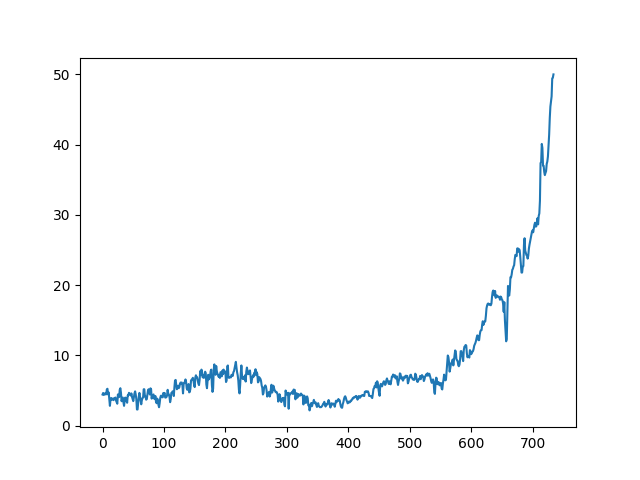
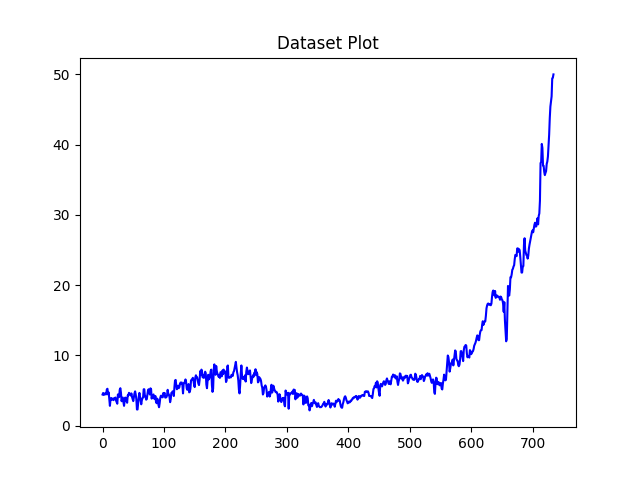
lstm update

diff --git a/lstm.py b/lstm.py
@@ -1,8 +1,86 @@
-import pandas as pd
+import numpy as np
 import matplotlib.pyplot as plt
+import pandas as pd
+import math
+from keras.models import Sequential
+from keras.layers import Dense
+from keras.layers import LSTM
+from keras.utils import plot_model
+from sklearn.preprocessing import MinMaxScaler
+from sklearn.metrics import mean_squared_error
 
-dataset = pd.read_excel('real-daily-wages-in-pounds-england.xlsx',dtype={'Wage':float})
-#print(dataset.Wage)
+def create_dataset(dataset, look_back=1):
+	dataX, dataY = [], []
+	for i in range(len(dataset)-look_back-1):
+		a = dataset[i:(i+look_back), 0]
+		dataX.append(a)
+		dataY.append(dataset[i + look_back, 0])
+	return np.array(dataX), np.array(dataY)
 
-plt.plot(dataset.Wage)
+np.random.seed(7)
+
+dataframe = pd.read_excel('real-daily-wages-in-pounds-england.xlsx',dtype={'Wage':float})
+plt.plot(dataframe.Wage, color='b')
+plt.title('Dataset Plot')
 plt.savefig('img/data_plot.png')
+dataset = pd.DataFrame(dataframe.Wage)
+dataset = dataset.astype('float32')
+
+# normalize the dataset
+scaler = MinMaxScaler(feature_range=(0, 1))
+dataset = scaler.fit_transform(dataset)
+
+# split into train and test sets
+train_size = int(len(dataset) * 0.67)
+test_size = len(dataset) - train_size
+train, test = dataset[0:train_size,:], dataset[train_size:len(dataset),:]
+print(len(train), len(test))
+
+# reshape into X=t and Y=t+1
+look_back = 4
+trainX, trainY = create_dataset(train, look_back)
+testX, testY = create_dataset(test, look_back)
+
+# reshape input to be [samples, time steps, features]
+trainX = np.reshape(trainX, (trainX.shape[0], trainX.shape[1], 1))
+testX = np.reshape(testX, (testX.shape[0], testX.shape[1], 1))
+
+print(trainX.shape, trainY.shape)
+
+# create and fit the LSTM network
+model = Sequential()
+model.add(LSTM(4, input_shape=( look_back, 1)))
+model.add(Dense(1))
+model.compile(loss='mean_squared_error', optimizer='adam')
+model.fit(trainX, trainY, epochs=100, batch_size=1, verbose=2)
+
+plot_model(model, to_file='img/model_lstm.png')
+# make predictions
+trainPredict = model.predict(trainX)
+testPredict = model.predict(testX)
+# invert predictions
+trainPredict = scaler.inverse_transform(trainPredict)
+trainY = scaler.inverse_transform([trainY])
+testPredict = scaler.inverse_transform(testPredict)
+testY = scaler.inverse_transform([testY])
+# calculate root mean squared error
+trainScore = math.sqrt(mean_squared_error(trainY[0], trainPredict[:,0]))
+print('Train Score: %.2f RMSE' % (trainScore))
+testScore = math.sqrt(mean_squared_error(testY[0], testPredict[:,0]))
+print('Test Score: %.2f RMSE' % (testScore))
+
+# shift train predictions for plotting
+trainPredictPlot = np.empty_like(dataset)
+trainPredictPlot[:, :] = np.nan
+trainPredictPlot[look_back:len(trainPredict)+look_back, :] = trainPredict
+# shift test predictions for plotting
+testPredictPlot = np.empty_like(dataset)
+testPredictPlot[:, :] = np.nan
+testPredictPlot[len(trainPredict)+(look_back*2)+1:len(dataset)-1, :] = testPredict
+# plot baseline and predictions
+plt.title('LSTM Result look_back=4 epoch 100')
+plt.plot(scaler.inverse_transform(dataset), color='b' )
+plt.plot(trainPredictPlot, color='g', label='Train Rsult' )
+plt.plot(testPredictPlot, color='r', label='Test Result')
+plt.legend(loc='upper left')
+plt.savefig('img/result_plot_lstm_4.png')

diff --git a/README.md b/README.md
@@ -1,1 +1,17 @@
 # TimeSeriesPredictionLSTM
+look_back = 1
+Train Score: 0.57 RMSE
+Test Score: 1.99 RMSE
+
+look_back = 10
+Train Score: 0.54 RMSE
+Test Score: 17.01 RMSE
+
+look_back = 5
+Train Score: 0.58 RMSE
+Test Score: 1.58 RMSE
+
+look_back = 3
+Train Score: 0.55 RMSE
+Test Score: 1.70 RMSE
+
